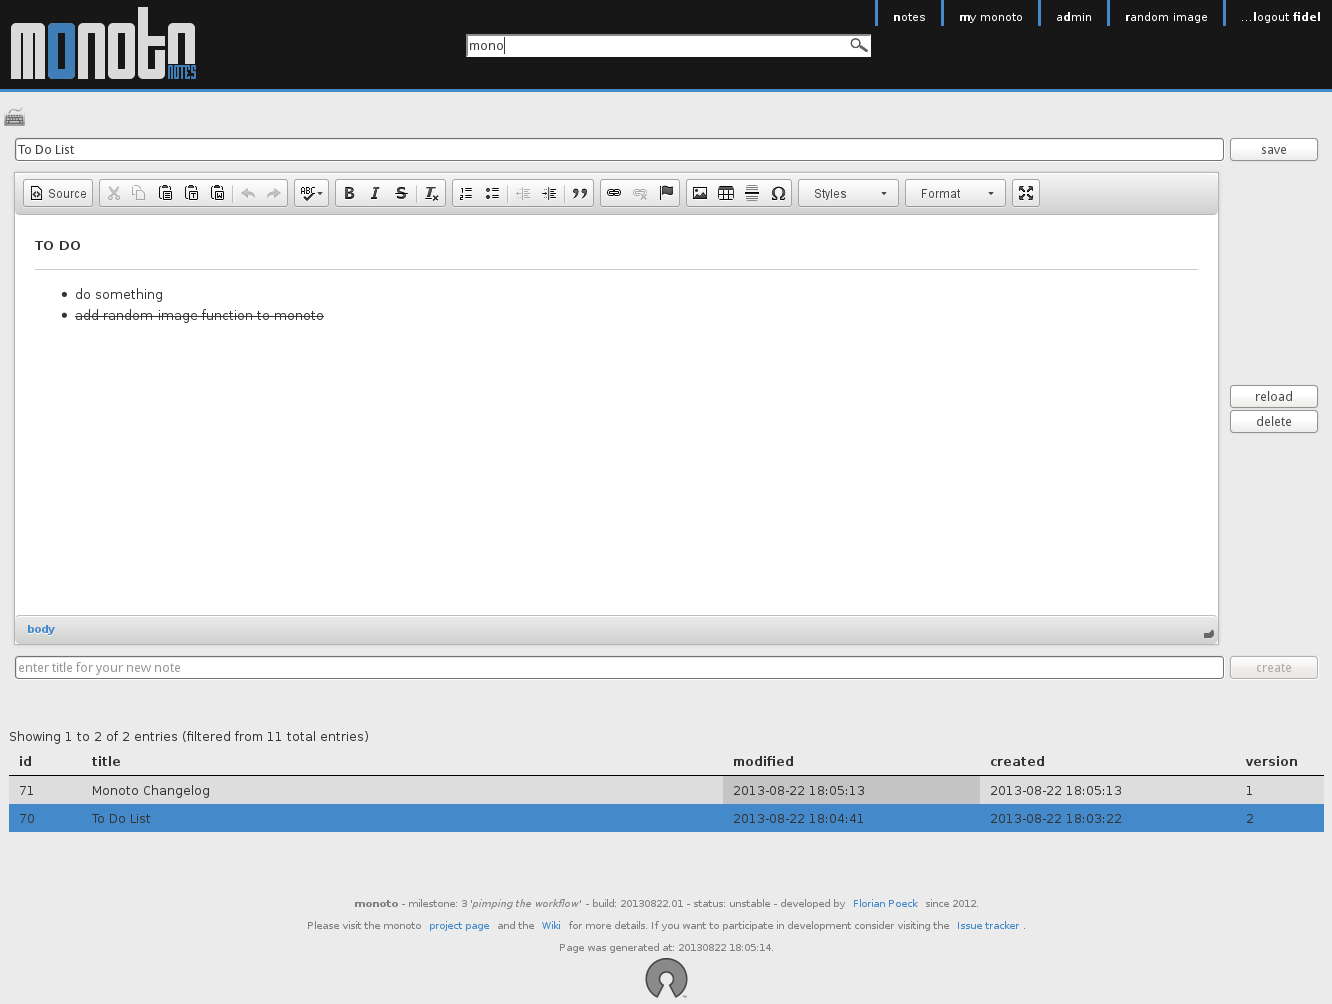
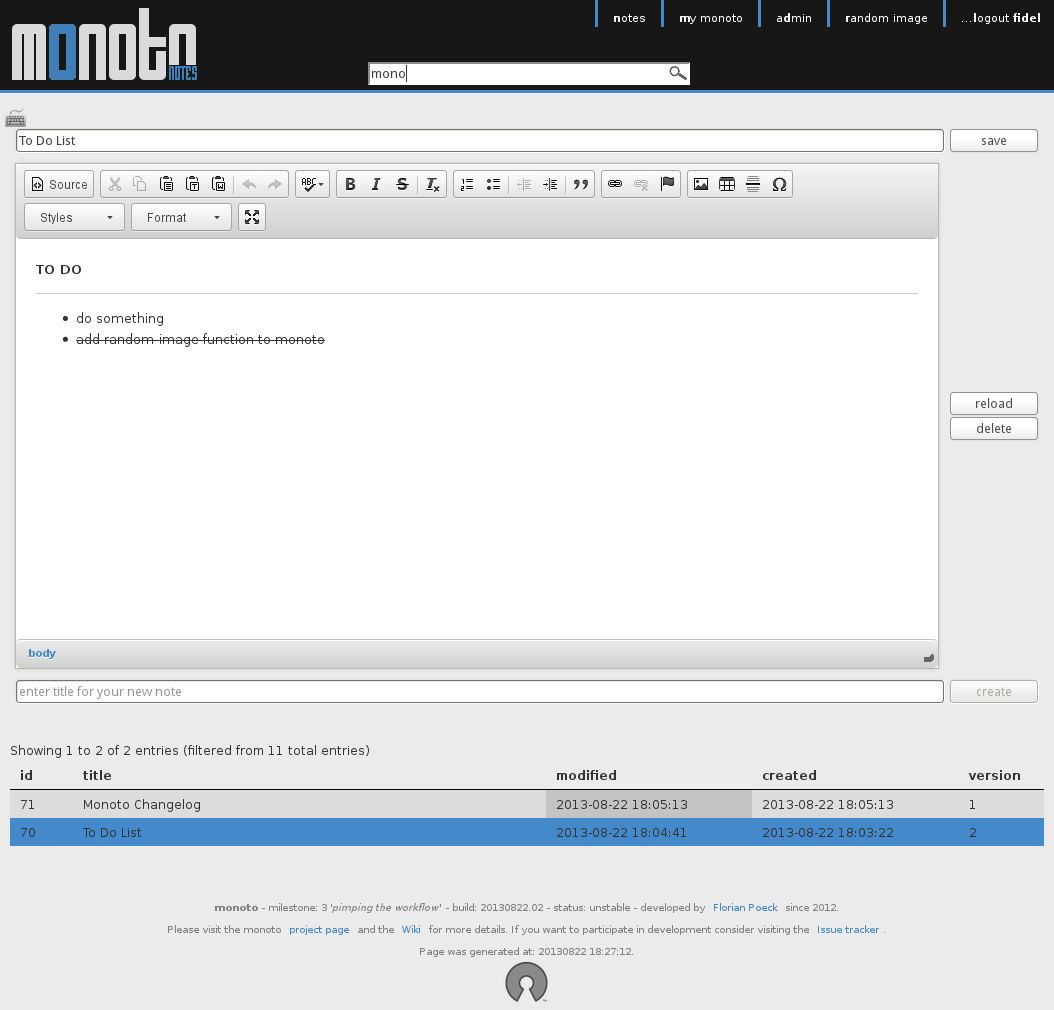
20130822.02 - minor cleanup (file & code-wise)

diff --git a/css/page01.css b/css/page01.css
@@ -21,16 +21,13 @@ body{
 	color: #333;
 	background-color: #EBEBEB;
 }
-
 /* content block */
 #dt_example #container {
 	width: 100%;
 	margin: 0px auto;
 	padding: 0;
 	background-color: #EBEBEB;
-	/* background-color:white; */
 }
-
 
 
 
@@ -42,17 +39,14 @@ body{
 #
 ################################################ 
 */
-
 #dt_example #newHead {
 	background-color: #171717;
-	/* background-color: yellow; */
 	height: 90px;
 	border-bottom: solid;
 	border-color: #4489c9;
 }
 
 #dt_example #neuNav {
-	/* background-color: #171717; */
 	float:right
 }
 
@@ -86,7 +80,6 @@ body{
 #
 ################################################ 
 */
-
 #dt_example #noteContentCo {
 	margin-left: 1em;
 	margin-right:1em;
@@ -142,12 +135,6 @@ body{
 
 #dt_example a:hover {
 	text-decoration: underline;
-	/*
-	padding-right: 1px;
-	padding-left: 1px;
-	padding-top: 2px;
-	padding-bottom: 2px;
-	*/
 }
 
 /* LISTS */
@@ -190,10 +177,9 @@ span {
 }
 
 
-
 /* SPACER class */
 .spacer {
-  	height: 40px;
+  	height: 30px;
 	clear: both;
 }
 
@@ -210,15 +196,12 @@ span {
 #
 ################################################ 
 */
-
-
 #dt_example #footer {
 	font: 10px/22px normal helvetica, sans-serif;
 	margin: 20px auto 0 auto;
 	padding: 0;
 	color: #808080;
 }
-
 
 
 

diff --git a/notes.php b/notes.php
@@ -56,7 +56,6 @@
 				// notification
 				// success
 				//
-				// BAUSTELLE
 				var n = noty({text: 'All notes loaded.', type: 'notification'});
 
 
@@ -69,12 +68,9 @@
 					});
 					$(event.target.parentNode).addClass('row_selected');
 
-					// enable the sidebar buttons - as we have selected a note
-					document.myform.save.disabled=false;
-					document.myform.delete.disabled=false;
-
-					// enable note title field
-					document.myform.noteTitle.disabled=false;
+					document.myform.save.disabled=false;			// enable the save button
+					document.myform.delete.disabled=false;			// enable the delete button
+					document.myform.noteTitle.disabled=false;		// enable note title field
 				});
 
 				/* Add a click handler for the delete row - we dont use that so far */
@@ -87,11 +83,7 @@
 				/* Init the table */
 				oTable = $('#example').dataTable( 
 				{ 
-					//"sDom": '<"wrapper"lipt>, <l<t>ip>',		/* resorting the datatable sDom structure - to have search & recordcount - table - recordcount */
 					"sDom": '<"wrapper"lipt>, <l<t>p>',		/* resorting the datatable sDom structure - to have search & recordcount - table - recordcount */
-
-
-
 					"oSearch": {"sSearch": ""}, 
 					"sRowSelect": "single",
 					"bLengthChange": false,
@@ -360,42 +352,18 @@
 
 		<div id="container">
 			<!-- HEADER & NAV -->
-
 			<div id="newHead">
-				<!--
-				<input type="search" id="myInputTextField" placeholder="enter search term">
-			-->
-			<?php 
-
-				include 'inc/header.php'; 
-
-				/*
-				$temp = get_cfg_var('max_execution_time'); 
-				echo "temp server-side timeout value;".$temp;
-				*/
-
-			?>
-
-			
-			<div id="newSearch">
-
-				<input type="search" id="myInputTextField" placeholder="enter search term" style="width:100%;">
-			</div>
-		
-			
-
-
-
-
+				<?php include 'inc/header.php'; ?>
+				<div id="newSearch">
+					<input type="search" id="myInputTextField" placeholder="enter search term" style="width:100%;">
+				</div>
 			</div> <!-- end of new head -->
 
 
 			<!-- CONTENT -->
 			<div id="noteContentCo">
-
 				<!-- SPACER -->
 				<div class="spacer">&nbsp;</div>
-
 				<form name="myform" method="post" action="<?php echo $_SERVER['SCRIPT_NAME'];?>">
 					<table style="width: 100%" cellspacing="0" cellpadding="5">
 						<!-- show id, title and version of current selected note -->
@@ -419,22 +387,14 @@
 						</tr>
 					</table>
 				</form>
-
-				<!--  CUSTOM SEARCH FIELD -->
-				<!--
-				<input style="float:right" type="search" id="myInputTextField" placeholder="enter search term here">	
-				-->		
-
+	
 				<!-- SPACER -->
 				<div class="spacer">&nbsp;</div>
 
-
-	
 				<!-- DATA-TABLE -->
 				<table cellpadding="0" cellspacing="0" class="display" id="example" width="100%">
 					<thead align="left"><tr><th>m_id</th><th>id</th><th>title</th><th>content</th><th>tags</th><th>modified</th><th>created</th><th>version</th></tr></thead>
 					<tbody>
-
 					<?php
 						include 'conf/config.php';							// connect to mysql db and fetch all notes  - we should move the db-connection data to an external config file later
 						include 'inc/db.php';  							// connect to db
@@ -449,9 +409,6 @@
 						}
 					?>
 					</tbody>
-					<!--
-					<tfoot align="left"><tr><th>m_id</th><th>id</th><th>title</th><th>content</th><th>tags</th><th>modified</th><th>created</th><th>version</th></tr></tfoot>
-				-->
 				</table>
 			</div>
 			<!-- SPACER -->

diff --git a/index.php b/index.php
@@ -22,16 +22,13 @@
 	<body id="dt_example">
 		<div id="container">
 
-			<div id="newHead">
-			<!-- HEADER & NAV -->
-			<?php include 'inc/header.php'; ?>
-
+			<div id="newHead">		<!-- HEADER & NAV -->
+				<?php include 'inc/header.php'; ?>
 			</div> <!-- end of new head -->
 
 			<!-- CONTENT -->
 			<div id="noteContentCo">
-
-				<!-- SPACER -->
+			<!-- SPACER -->
 			<div class="spacer">&nbsp;</div>
 			
 			<?php
@@ -153,13 +150,10 @@ if ( isset($_POST["doLogin"]) )
 
 		    header('Location: redirect.php');									// redirect user 
 		    echo '<script type="text/javascript">var n = noty({text: "Login failed.", type: "error"});</script>';
-
-
 		}
 		else //login successful
 		{	
 	    	$_SESSION['valid'] = 1;
-
 	    	echo '<script language=javascript>$.cookie("lastAction", "Logged in.");</script>';	// store last Action in cookie
 
 	    	// if user is admin - add the info to our session 

diff --git a/admin.php b/admin.php
@@ -82,7 +82,8 @@
 			<div id="noteContentCo">
 
 				<?php
-					include 'conf/config.php';
+					include 'conf/config.php';	// db informations
+					include 'conf/build.php';	// version informations
 					include ('inc/db.php');		// connect to db
 					connectToDB();
 
@@ -384,8 +385,6 @@
 		header('Location: redirect.php');
 	}
    
-
-
 	include 'conf/config.php';
 
 	// UpdateCheck
@@ -399,8 +398,7 @@
 		// assume everything is good
 		$critical = FALSE;
 		$update = FALSE;
-
-		//$url = "https://raw.github.com/macfidelity/monoto/master/vStable.csv";
+		
 		$url = "https://raw.github.com/macfidelity/monoto/master/conf/vStable.csv";
 		$fp = @fopen ($url, 'r') or print ('UPDATE SERVER OFFLINE');
 		$read = fgetcsv ($fp);

diff --git a/conf/config.php b/conf/config.php
@@ -25,14 +25,4 @@
 	$s_enable_random_image		= true;				// enable random image page
 	
 	$s_user_icon_path			= "images/icons/user-14.png";
-
-	// #################################################################################
-	// SECTION 3 - but you shouldnt touch those ... thanks. DEVELOPER-STUFF
-	// #################################################################################
-	//
-	$m_name						= "monoto";						// name of your notes system
-	$m_milestone				= "3";							// current milestone number
-	$m_milestone_title			= "pimping the workflow";		// current milestone name
-	$m_build					= "20130822.01";				// build-date and day's version
-	$m_stable					= false;						// defined if that is a milestone release
 ?>

diff --git a/logout.php b/logout.php
@@ -38,10 +38,8 @@
 			<?php include 'inc/header.php'; ?>
 		</div>
 			<div id="noteContentCo">
-				
 				<!-- SPACER -->
 				<div id="spacer">&nbsp;</div>
-
 				<!-- CORE SETTINGS -->
 				<h2><a name="core">logout</a></h2>
 
@@ -51,7 +49,7 @@
 					{
 						$logoutImage = "images/icons/logout.gif";
 					}
-					else // pick random from folder
+					else // or ...pick random from folder
 					{
 						$imagesDir = 'images/random_logout/';
 						$images = glob($imagesDir . '*.{jpg,jpeg,png,gif}', GLOB_BRACE);
@@ -63,7 +61,6 @@
 				
 				<!-- REDIRECT TO LOGIN -->
 				<?php header("refresh:10;url=index.php"); ?>
-				
 				<!-- SPACER -->
 				<div id="spacer">&nbsp;<br>&nbsp;</br></div>
 			</div>

diff --git a/conf/build.php b/conf/build.php
@@ -1,0 +1,11 @@
+<?php
+	// #################################################################################
+	// VERSION INFORMATION - you shouldnt touch those ... thanks.
+	// #################################################################################
+	//
+	$m_name						= "monoto";						// name of your notes system
+	$m_milestone				= "3";							// current milestone number
+	$m_milestone_title			= "pimping the workflow";		// current milestone name
+	$m_build					= "20130822.02";				// build-date and day's version
+	$m_stable					= false;						// defined if that is a milestone release
+?>

diff --git a/mymonoto.php b/mymonoto.php
@@ -38,7 +38,6 @@
 				/* Init the table */
 				oTable = $('#example').dataTable( 
 				{ 
-				/* "oSearch": {"sSearch": "Initial search"}, */
 				"sPaginationType": "full_numbers",
 				"iDisplayLength": 50,									/* default rows */
 				"bLengthChange": false,
@@ -64,9 +63,8 @@
 			<!-- CONTENT -->
 			<div id="noteContentCo">
 				<?php include ('conf/config.php'); ?>
-<!-- SPACER -->
+				<!-- SPACER -->
 				<div class="spacer">&nbsp;</div>
-
 
 				<div id="tabs">
 					<ul>

diff --git a/inc/footer.php b/inc/footer.php
@@ -1,7 +1,7 @@
 <!--  FOOTER -->
 <div id="footer" class="clear" style="text-align:center;">
 	<?php 
-		include 'conf/config.php';
+		include 'conf/build.php';
 
 		echo "<b>".$m_name."</b> - milestone: ".$m_milestone."  '<i>".$m_milestone_title."</i>' - build: ".$m_build." - status: "; 
 		if($m_stable == false)
